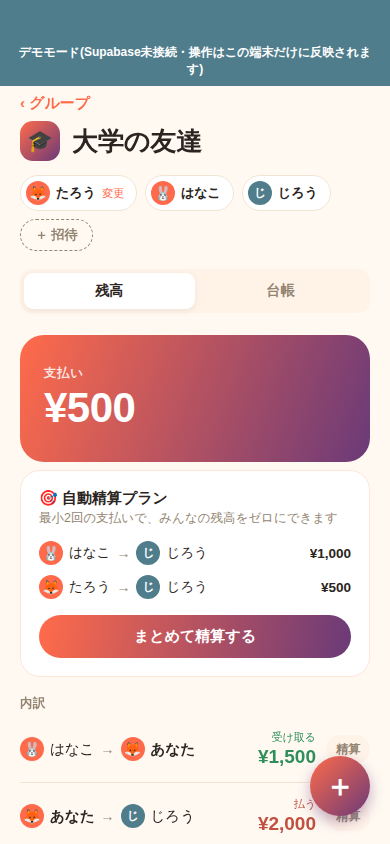
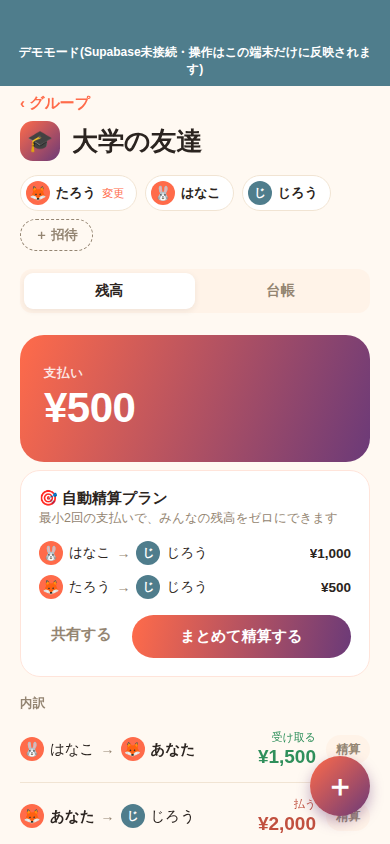
kashikari mobile: 自動精算プランをLINE等に共有できるように
売上につなげるための改善アイデアの④(LINE共有機能)への対応。

- 「自動精算プラン」カードに「共有する」ボタンを追加。押すとOS標準の
  共有シート(招待コード共有と同じShare.share())が開き、LINEを含め
  端末に入っているどのアプリにも精算結果を送れる
- src/lib/shareText.ts: buildSettlementShareText()がkashikari独自の
  リンクやフォーマットに依存しない、読んでそのまま意味が通るプレーン
  テキストを生成する(相手がkashikari未登録でも内容が伝わることを優先)
- デモモードにも同じ導線を実装。docs/screenshots/group-detail.pngを
  ボタン追加後の見た目に更新

Changed region(s): [[0.0923, 0.7085, 0.7692, 0.8009]]

diff --git a/personal-side-projects/kashikari/mobile/src/components/AutoSettlePlan.tsx b/personal-side-projects/kashikari/mobile/src/components/AutoSettlePlan.tsx
@@ -1,13 +1,15 @@
-import { StyleSheet, Text, View } from 'react-native';
+import { Share, StyleSheet, Text, View } from 'react-native';
 
 import Avatar from './Avatar';
 import PrimaryButton from './PrimaryButton';
 import { useT } from '../i18n';
 import { formatMoney } from '../lib/currency';
+import { buildSettlementShareText } from '../lib/shareText';
 import { colors, fonts } from '../theme';
 import type { SimplifiedTransaction } from '../types';
 
 type Props = {
+  groupName: string;
   currency: string;
   transactions: SimplifiedTransaction[];
   nameOf: (id: string) => string;
@@ -19,8 +21,17 @@ type Props = {
 // グループ全体を最小の支払い回数にまとめたプランをカードで見せる。
 // このカードは、それが実際に減らせている場合(pairwiseの行数より
 // simplifiedの行数が少ない場合)にだけGroupScreen側で表示される。
-export default function AutoSettlePlan({ currency, transactions, nameOf, emojiOf, onSettleAll }: Props) {
+export default function AutoSettlePlan({ groupName, currency, transactions, nameOf, emojiOf, onSettleAll }: Props) {
   const t = useT();
+
+  const share = () => {
+    const text = buildSettlementShareText(groupName, transactions, nameOf, {
+      heading: t.share.settlementHeading,
+      closing: t.share.settlementClosing,
+    });
+    Share.share({ message: text });
+  };
+
   return (
     <View style={styles.card}>
       <Text style={styles.title}>{t.group.autoSettleTitle}</Text>
@@ -45,7 +56,10 @@ export default function AutoSettlePlan({ currency, transactions, nameOf, emojiOf
         ))}
       </View>
 
-      <PrimaryButton title={t.group.autoSettleButton} onPress={onSettleAll} style={styles.button} />
+      <View style={styles.actions}>
+        <PrimaryButton title={t.group.autoSettleShareButton} variant="ghost" onPress={share} style={styles.shareButton} />
+        <PrimaryButton title={t.group.autoSettleButton} onPress={onSettleAll} style={styles.settleButton} />
+      </View>
     </View>
   );
 }
@@ -66,5 +80,7 @@ const styles = StyleSheet.create({
   name: { ...fonts.bodyMedium, fontSize: 13.5, color: colors.ink, flexShrink: 1 },
   arrow: { color: colors.muted },
   amount: { ...fonts.bodySemiBold, fontSize: 13.5, color: colors.ink, marginLeft: 'auto' },
-  button: { width: '100%' },
+  actions: { flexDirection: 'row', gap: 8 },
+  shareButton: {},
+  settleButton: { flex: 1 },
 });

diff --git a/personal-side-projects/kashikari/mobile/src/i18n/strings.ts b/personal-side-projects/kashikari/mobile/src/i18n/strings.ts
@@ -42,6 +42,7 @@ export const ja = {
     autoSettleTitle: '🎯 自動精算プラン',
     autoSettleSubtitle: (count: number) => `最小${count}回の支払いで、みんなの残高をゼロにできます`,
     autoSettleButton: 'まとめて精算する',
+    autoSettleShareButton: '共有する',
     hideSettled: '精算済みを隠す',
     showSettled: (count: number) => `精算済み${count}件を表示`,
     emptyLedger: 'まだ記録がありません。右下の「＋」から最初の貸し借りを記録しましょう。',
@@ -148,6 +149,12 @@ export const ja = {
     version: (v: string) => `バージョン ${v}`,
     savedNote: '保存しました',
   },
+  share: {
+    // kashikariを使っていない相手にもそのまま伝わるよう、アプリ内リンク等は
+    // 使わず、読んでそのまま意味が通るテキストにしている。
+    settlementHeading: (groupName: string) => `「${groupName}」の精算結果`,
+    settlementClosing: 'よろしくお願いします!',
+  },
   demo: {
     banner: 'デモモード(Supabase未接続・操作はこの端末だけに反映されます)',
     createDisabled: 'デモモードでは作成できません',
@@ -194,6 +201,7 @@ export const en: Strings = {
     autoSettleTitle: '🎯 Auto-settle plan',
     autoSettleSubtitle: (count: number) => `Settle everyone up in as few as ${count} payment${count === 1 ? '' : 's'}`,
     autoSettleButton: 'Settle up',
+    autoSettleShareButton: 'Share',
     hideSettled: 'Hide settled',
     showSettled: (count: number) => `Show ${count} settled`,
     emptyLedger: 'No records yet. Tap the “＋” below to log your first one.',
@@ -299,6 +307,10 @@ export const en: Strings = {
     about: 'About',
     version: (v: string) => `Version ${v}`,
     savedNote: 'Saved',
+  },
+  share: {
+    settlementHeading: (groupName: string) => `Settlement for "${groupName}"`,
+    settlementClosing: 'Thanks!',
   },
   demo: {
     banner: 'Demo mode (not connected to Supabase — changes only affect this device)',

diff --git a/personal-side-projects/kashikari/mobile/src/lib/shareText.ts b/personal-side-projects/kashikari/mobile/src/lib/shareText.ts
@@ -1,0 +1,19 @@
+import { formatMoney } from './currency';
+import type { SimplifiedTransaction } from '../types';
+
+// 自動精算プランを、LINE等にそのまま貼り付けられるテキストに変換する。
+// 「相手がkashikariを使っていなくても共有できること」が要件のため、
+// アプリ固有のリンクやフォーマットには依存しない、ただの読みやすい
+// テキストにしている。実際の送信はOS標準の共有シート(Share.share)に
+// 任せる(LINEを含め、端末に入っているどのアプリにも送れる)。
+export function buildSettlementShareText(
+  groupName: string,
+  transactions: SimplifiedTransaction[],
+  nameOf: (id: string) => string,
+  labels: { heading: (groupName: string) => string; closing: string }
+): string {
+  const body = transactions
+    .map((tx) => `${nameOf(tx.debtor)} → ${nameOf(tx.creditor)}\n${formatMoney(tx.amount, tx.currency)}`)
+    .join('\n\n');
+  return `${labels.heading(groupName)}\n\n${body}\n\n${labels.closing}`;
+}

diff --git a/personal-side-projects/kashikari/mobile/src/screens/GroupScreen.tsx b/personal-side-projects/kashikari/mobile/src/screens/GroupScreen.tsx
@@ -187,6 +187,7 @@ export default function GroupScreen({ group, meId, onBack, onLeave, onChangeAvat
               {autoSettlePlans.map((plan) => (
                 <AutoSettlePlan
                   key={plan.currency}
+                  groupName={group.name}
                   currency={plan.currency}
                   transactions={plan.transactions}
                   nameOf={nameOf}

diff --git a/personal-side-projects/kashikari/mobile/src/demo/DemoGroupScreen.tsx b/personal-side-projects/kashikari/mobile/src/demo/DemoGroupScreen.tsx
@@ -201,6 +201,7 @@ export default function DemoGroupScreen({ onBack }: { onBack: () => void }) {
               {autoSettlePlans.map((plan) => (
                 <AutoSettlePlan
                   key={plan.currency}
+                  groupName={group.name}
                   currency={plan.currency}
                   transactions={plan.transactions}
                   nameOf={nameOf}

diff --git a/personal-side-projects/kashikari/mobile/README.md b/personal-side-projects/kashikari/mobile/README.md
@@ -148,6 +148,28 @@ EXPO_PUBLIC_DEMO_MODE=1 npx expo start --web
 - `src/lib/split.ts`の`splitAmount()`が、割り切れない端数(例: 10,000円÷3人)を1円単位(JPY/KRWは1単位、それ以外は1セント単位)で参加者に配分する。合計は必ず元の金額と一致する
 - `useGroupData.ts`に`addSplitEntry()`を追加。レシート画像は割り勘全体で1回だけアップロードし、生成される全ての記録から同じ画像を参照する
 
+## LINEなどへの共有(12回目)
+
+売上につなげるための改善アイデアのうち、「④LINE共有機能」への対応。
+
+「自動精算プラン」カードに**共有するボタン**を追加した。押すとOS標準の共有シートが開き、LINEを含め端末に入っているどのアプリにも精算結果を送れる。
+
+```
+「大学の友達」の精算結果
+
+はなこ → たろう
+¥9,000
+
+じろう → たろう
+¥6,500
+
+よろしくお願いします!
+```
+
+- kashikari独自のリンクやアプリ内フォーマットには依存しない、読んでそのまま意味が通るプレーンテキストにしている。**相手がkashikariを使っていなくても内容が伝わる**ことを優先した設計
+- 実装は`src/lib/shareText.ts`の`buildSettlementShareText()`(テキスト生成)と、React Native標準の`Share.share()`(OSの共有シートを開く。招待コードの共有(`invite()`)と同じ仕組み)
+- Web版のデモ環境では`Share.share()`自体がブラウザ非対応のため動かないが、実機のiOS/Androidでは正しく共有シートが開く
+
 ## 構成
 
 - `App.tsx` — フォント読み込み・認証状態に応じた画面切り替え(オンボーディング/グループ一覧/グループ詳細)。会社の`app/`と同じく、ルーティングライブラリなしのシンプルな画面切り替え
